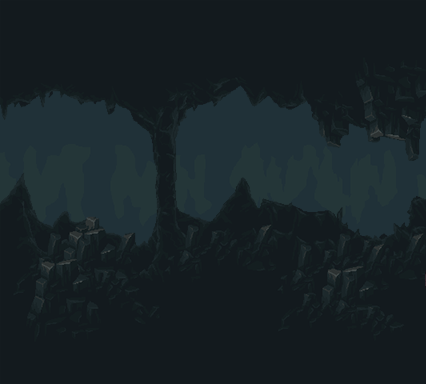
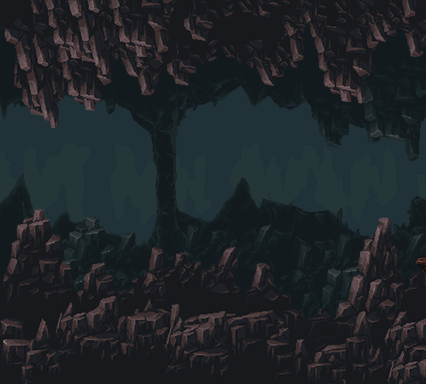
Tower Segment, Dimension Connection and Beyond

diff --git a/src/game/Map.java b/src/game/Map.java
@@ -26,13 +26,14 @@ public class Map {
 
     private int horizontalIndex = 0;
     private int verticalIndex = 0;
-    private int setX = 426;
+    private int oldSetx=0,setX = 426;
     private int setY = 384;
     private final LinkedList<String> LAST_DIRECTION = new LinkedList<>();
     private String currentTheme = "A";
     String texturePlatformDefault = "";
     String texturePlatformInverted = "";
     String textureFloor = "";
+    String textureRoof = "";
     String goUrl = "";
     int index = 0;
     int bottom;
@@ -43,22 +44,25 @@ public class Map {
 
     public Level currentLevel;
     int defaultSeed = 0;
+    private boolean justChanged=false;
 
-    ArrayList<String> segments3,segments1,segments2,segments4,wizard,introDimension,castleEntrance,throneRoom, segments5;
+    ArrayList<String> segments3,segments1,segments2,segments4,wizard,introDimension,castleEntrance,throneRoom, segments5, introOutDimension,towerA,segments6;
 
     public Map (MapMode mapMode, GameMode gameMode){
 
         currentLevel = new Level();
 
-        //currentLevel.addEntity(new WallOfDeath());
+        currentLevel.addEntity(new WallOfDeath());
 
         switch (mapMode)
         {
             case debug:
 
                 parseFile(currentLevel, "intro1");
-                //parseFile(currentLevel, "introDimension");
-               // parseFile(currentLevel,"introOutDimension");
+                parseFile(currentLevel, "introDimension");
+                parseFile(currentLevel,"segmentA14");
+                parseFile(currentLevel,"segmentA16");
+                parseFile(currentLevel,"introOutDimension");
                 //parseFile(currentLevel,"segmentA10");
                 parseFile(currentLevel,"segmentA17");
                 parseFile(currentLevel,"segmentB1");
@@ -103,6 +107,9 @@ public class Map {
                 wizard = new ArrayList<String>(Arrays.asList("segmentA13"));
                 introDimension = new ArrayList<String>(Arrays.asList("introDimension"));
                 segments5 = new ArrayList<String>(Arrays.asList("segmentA14","segmentA16"));
+                introOutDimension = new ArrayList<String>(Arrays.asList("introOutDimension"));
+                towerA = new ArrayList<String>(Arrays.asList("segmentA17"));
+                segments6 = new ArrayList<String>(Arrays.asList("segmentB1"));
 
                 //choose the limits of your map this should also be related to how many levels you have defined
                 //eg. you don't want to have 20 levels but a top limit of only 2 since 17 of the leves will never be used
@@ -130,10 +137,13 @@ public class Map {
 	                        randomGenerate(segments4, defaultSeed) + randomGenerate(wizard, defaultSeed) + randomGenerate(introDimension, defaultSeed),
 	                        randomGenerate(segments5, defaultSeed)));
                 }
-
+                //parseFile(currentLevel,"introOutDimension");
+                //parseFile(currentLevel,"segmentA17");
+                //parseFile(currentLevel,"segmentB1");
                 //create specific progressbar parts for the generated segment pools
                 for (Integer i =0 ; i<allParts.size();i++)
                 {
+                    System.out.println(allParts.get(i));
                     mps.add(new MapPart("./img/minipart".concat(i.toString()).concat(".png"),allParts.get(i)));
                 }
                 break;
@@ -159,20 +169,23 @@ public class Map {
      * @param currentLevel The level towards which we wish to parse
      * @param url          Name of the file we wish to parse
      */
-    public void parseFile(Level currentLevel, String url) {
+    public int parseFile(Level currentLevel, String url) {
 
+        int nrBlocks = 0;
         try {
             File myObj = new File("./src/game/segments/".concat(url).concat(".txt"));
             Scanner myReader = new Scanner(myObj);
             while (myReader.hasNextLine()) {
                 String data = myReader.nextLine();
-                interpret(currentLevel, data.split("\\s+"));
+                nrBlocks = nrBlocks + interpret(currentLevel, data.split("\\s+"));
             }
             myReader.close();
         } catch (FileNotFoundException e) {
             System.out.println("An error occurred.");
             e.printStackTrace();
         }
+
+        return nrBlocks;
     }
 
     /**
@@ -181,19 +194,37 @@ public class Map {
      * @param currentLevel The level towards which we wish to parse
      * @param splitted     The splitted command into specific elements the interpreter can understand
      */
-    public void interpret(Level currentLevel, String[] splitted) {
+    public int interpret(Level currentLevel, String[] splitted) {
+
+        int nrBlocks=0;
 
         switch (splitted[0]) {
 
             case "Theme":
                 if (!splitted[1].equals(currentTheme)) {
+                    oldSetx=setX;
                     setX = Integer.parseInt(splitted[2]);
                     setY = Integer.parseInt(splitted[3]);
                     currentTheme = splitted[1];
+                    justChanged=true;
                 }
                 texturePlatformDefault = splitted[4];
                 texturePlatformInverted = splitted[5];
                 textureFloor = splitted[6];
+                textureRoof = splitted[7];
+
+                switch (splitted[8]){
+                    case "1":
+                        nrBlocks++;
+                        break;
+                    case "2":
+                        nrBlocks++;
+                        nrBlocks++;
+                        break;
+                    case "CUSTOM":
+                        nrBlocks++;
+                        break;
+                }
                 break;
 
             case "Chunk":
@@ -205,6 +236,10 @@ public class Map {
                         horizontalIndex = horizontalIndex + setX;
                         break;
                     case "W":
+                        if(justChanged) {
+                            horizontalIndex = horizontalIndex + (setX-oldSetx);
+                            justChanged=false;
+                        }
                         horizontalIndex = horizontalIndex - setX;
                         break;
                     case "N":
@@ -259,6 +294,10 @@ public class Map {
             case "Floor":
 
                 currentLevel.addEntity(new Platform(horizontalIndex - setX, verticalIndex + setY, setX, 0, textureFloor));
+                break;
+            case "Roof":
+
+                currentLevel.addEntity(new Platform(horizontalIndex - setX, verticalIndex , setX, 0, textureRoof));
                 break;
 
             case "MovingPlatform":
@@ -417,6 +456,8 @@ public class Map {
                 break;
 
         }
+
+        return nrBlocks;
     }
 
     /**

diff --git a/src/game/entities/players/Player.java b/src/game/entities/players/Player.java
@@ -52,7 +52,7 @@ public class Player extends GameObject implements SolidCollider, GravityObject {
     public boolean immunity = false;
     public int i = 0;
     private int bi = 0;
-    protected boolean canMove = true;
+    protected boolean canMove = false;
     private boolean locked = false;
     private GameObject locker;
     protected final ArrayList<Item> INVENTORY = new ArrayList<Item>(Arrays.asList(new Item(0, 0, 0, 0, this, "./img/empty.png"), new Item(0, 0, 0, 0, this, "./img/empty.png"), new Item(0, 0, 0, 0, this, "./img/empty.png")));

diff --git a/src/game/entities/areas/Area.java b/src/game/entities/areas/Area.java
@@ -29,8 +29,8 @@ public class Area extends GameObject {
 
 	public void render(Graphics g, float f, float h) {
 
-			g.setColor(Color.magenta);
-			g.fillRect((int)(this.x + f),(int)(this.y + h),this.width,this.height);
+			//g.setColor(Color.magenta);
+			//g.fillRect((int)(this.x + f),(int)(this.y + h),this.width,this.height);
 			g.drawImage(img,(int)(this.x + f),(int)(this.y + h),null);
 	}
 

diff --git a/src/game/Game.java b/src/game/Game.java
@@ -168,7 +168,7 @@ public class Game extends Canvas implements Runnable{
 	 */
 	public synchronized void start() {
 
-		m = new Map(MapMode.debug, gameMode);
+		m = new Map(MapMode.RNG, gameMode);
 
 		switch (gameMode)
 		{

diff --git a/src/game/Level.java b/src/game/Level.java
@@ -67,6 +67,7 @@ public class Level extends Canvas {
 
 		if (!entities.isEmpty() && levelState!=LevelState.Loading)
 		for(GameObject o : entities) {
+
 			o.render(g, f, h);
 		}
 	}
